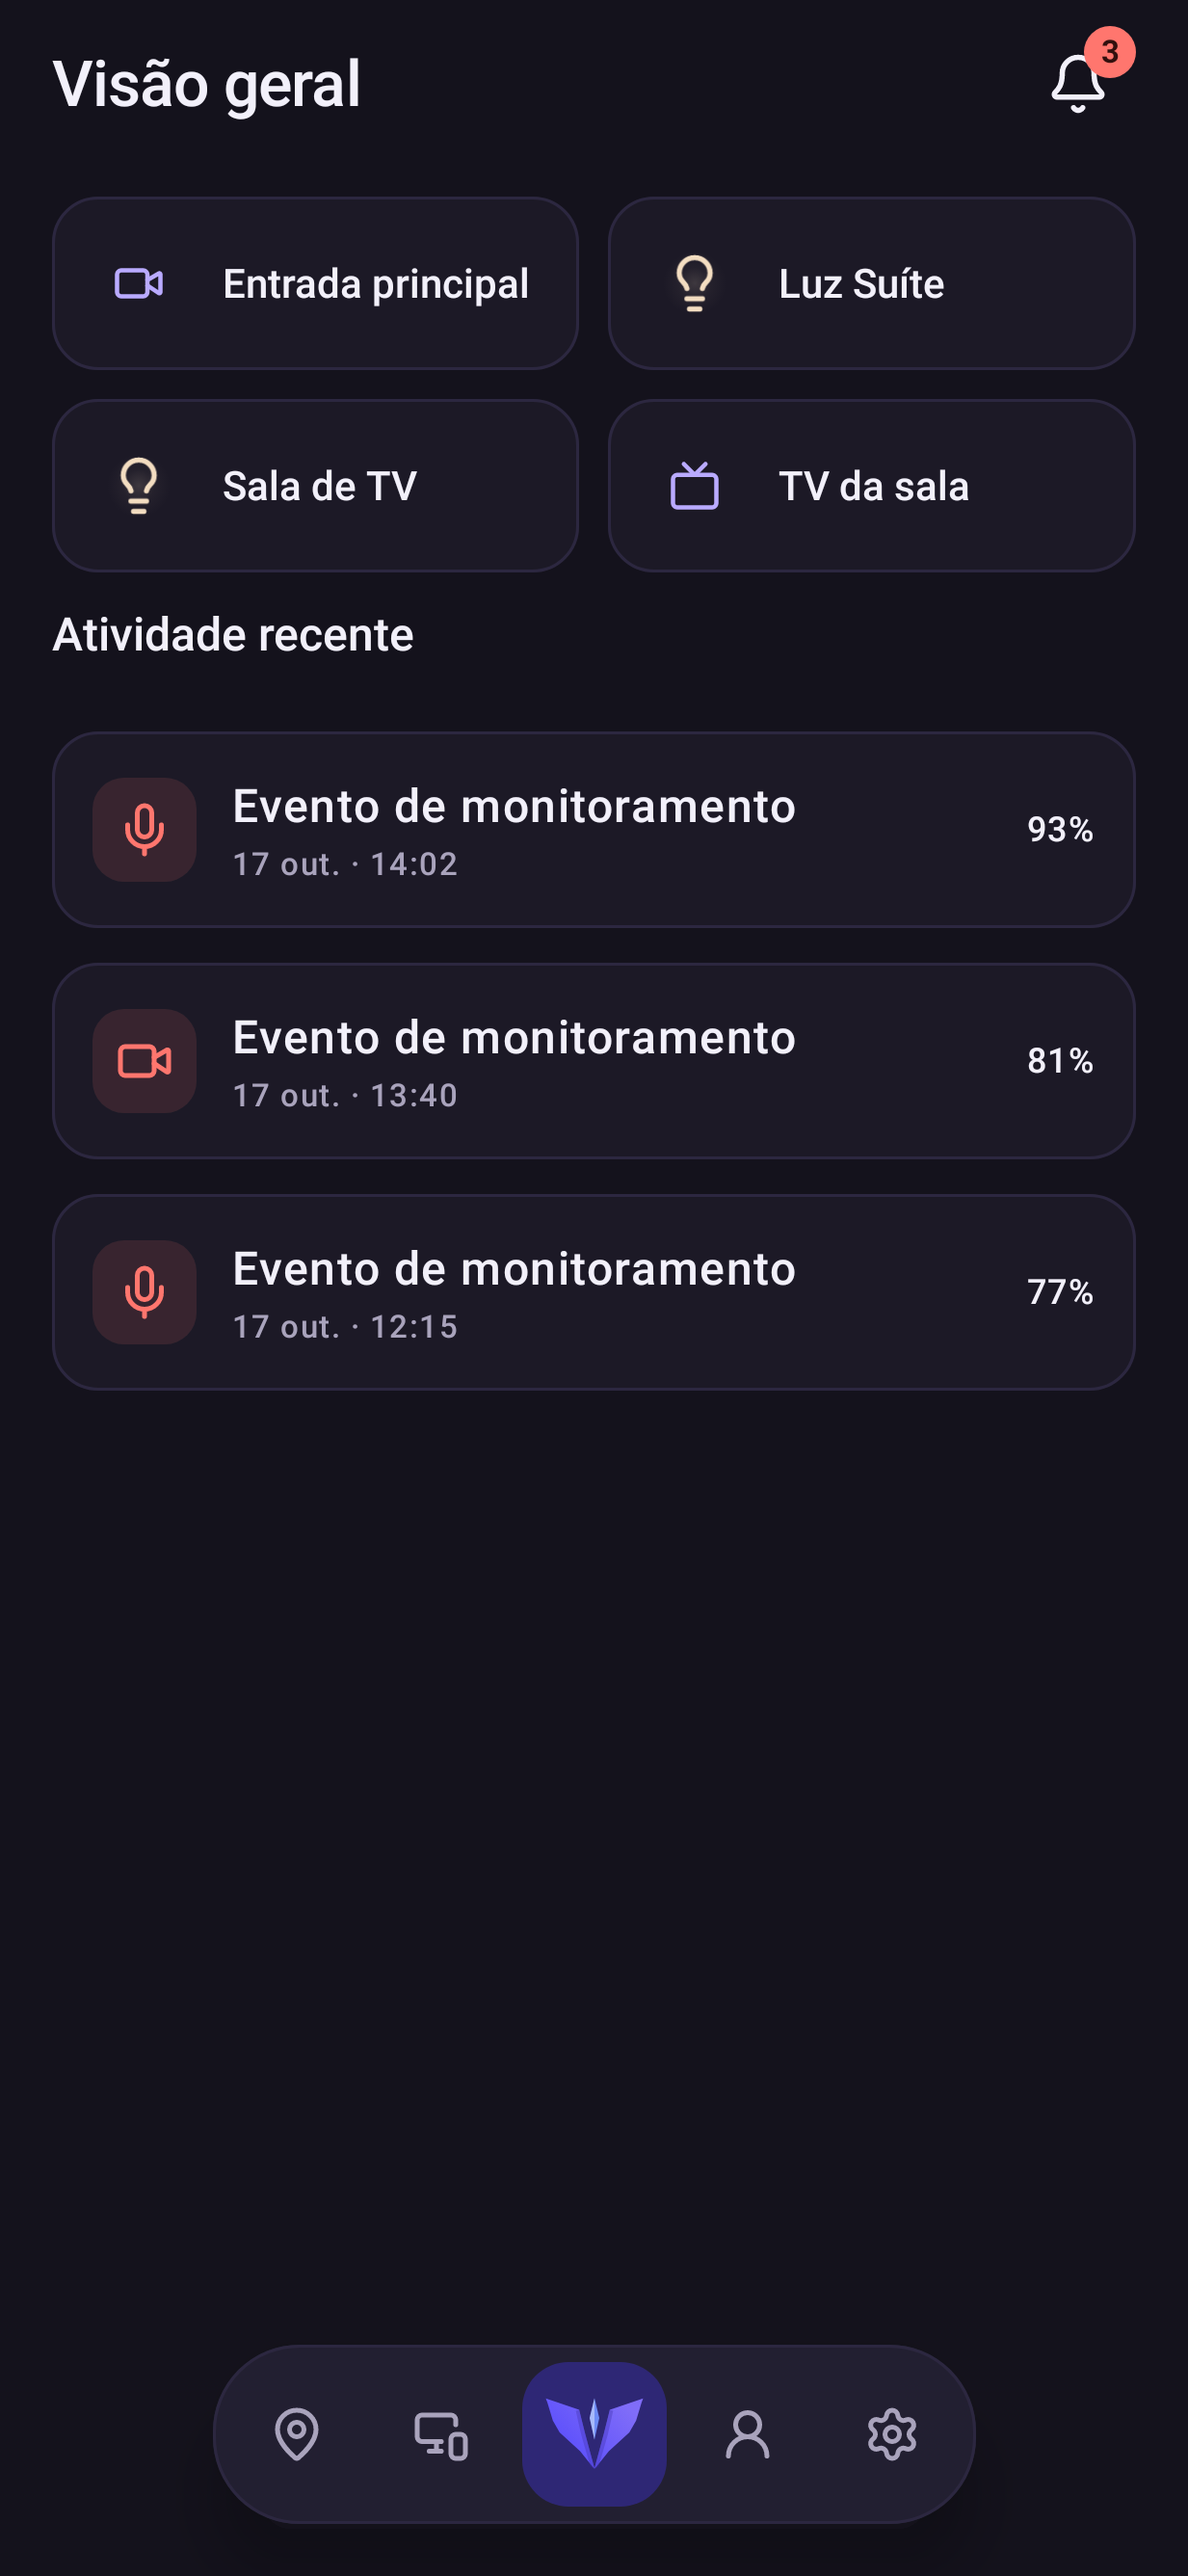
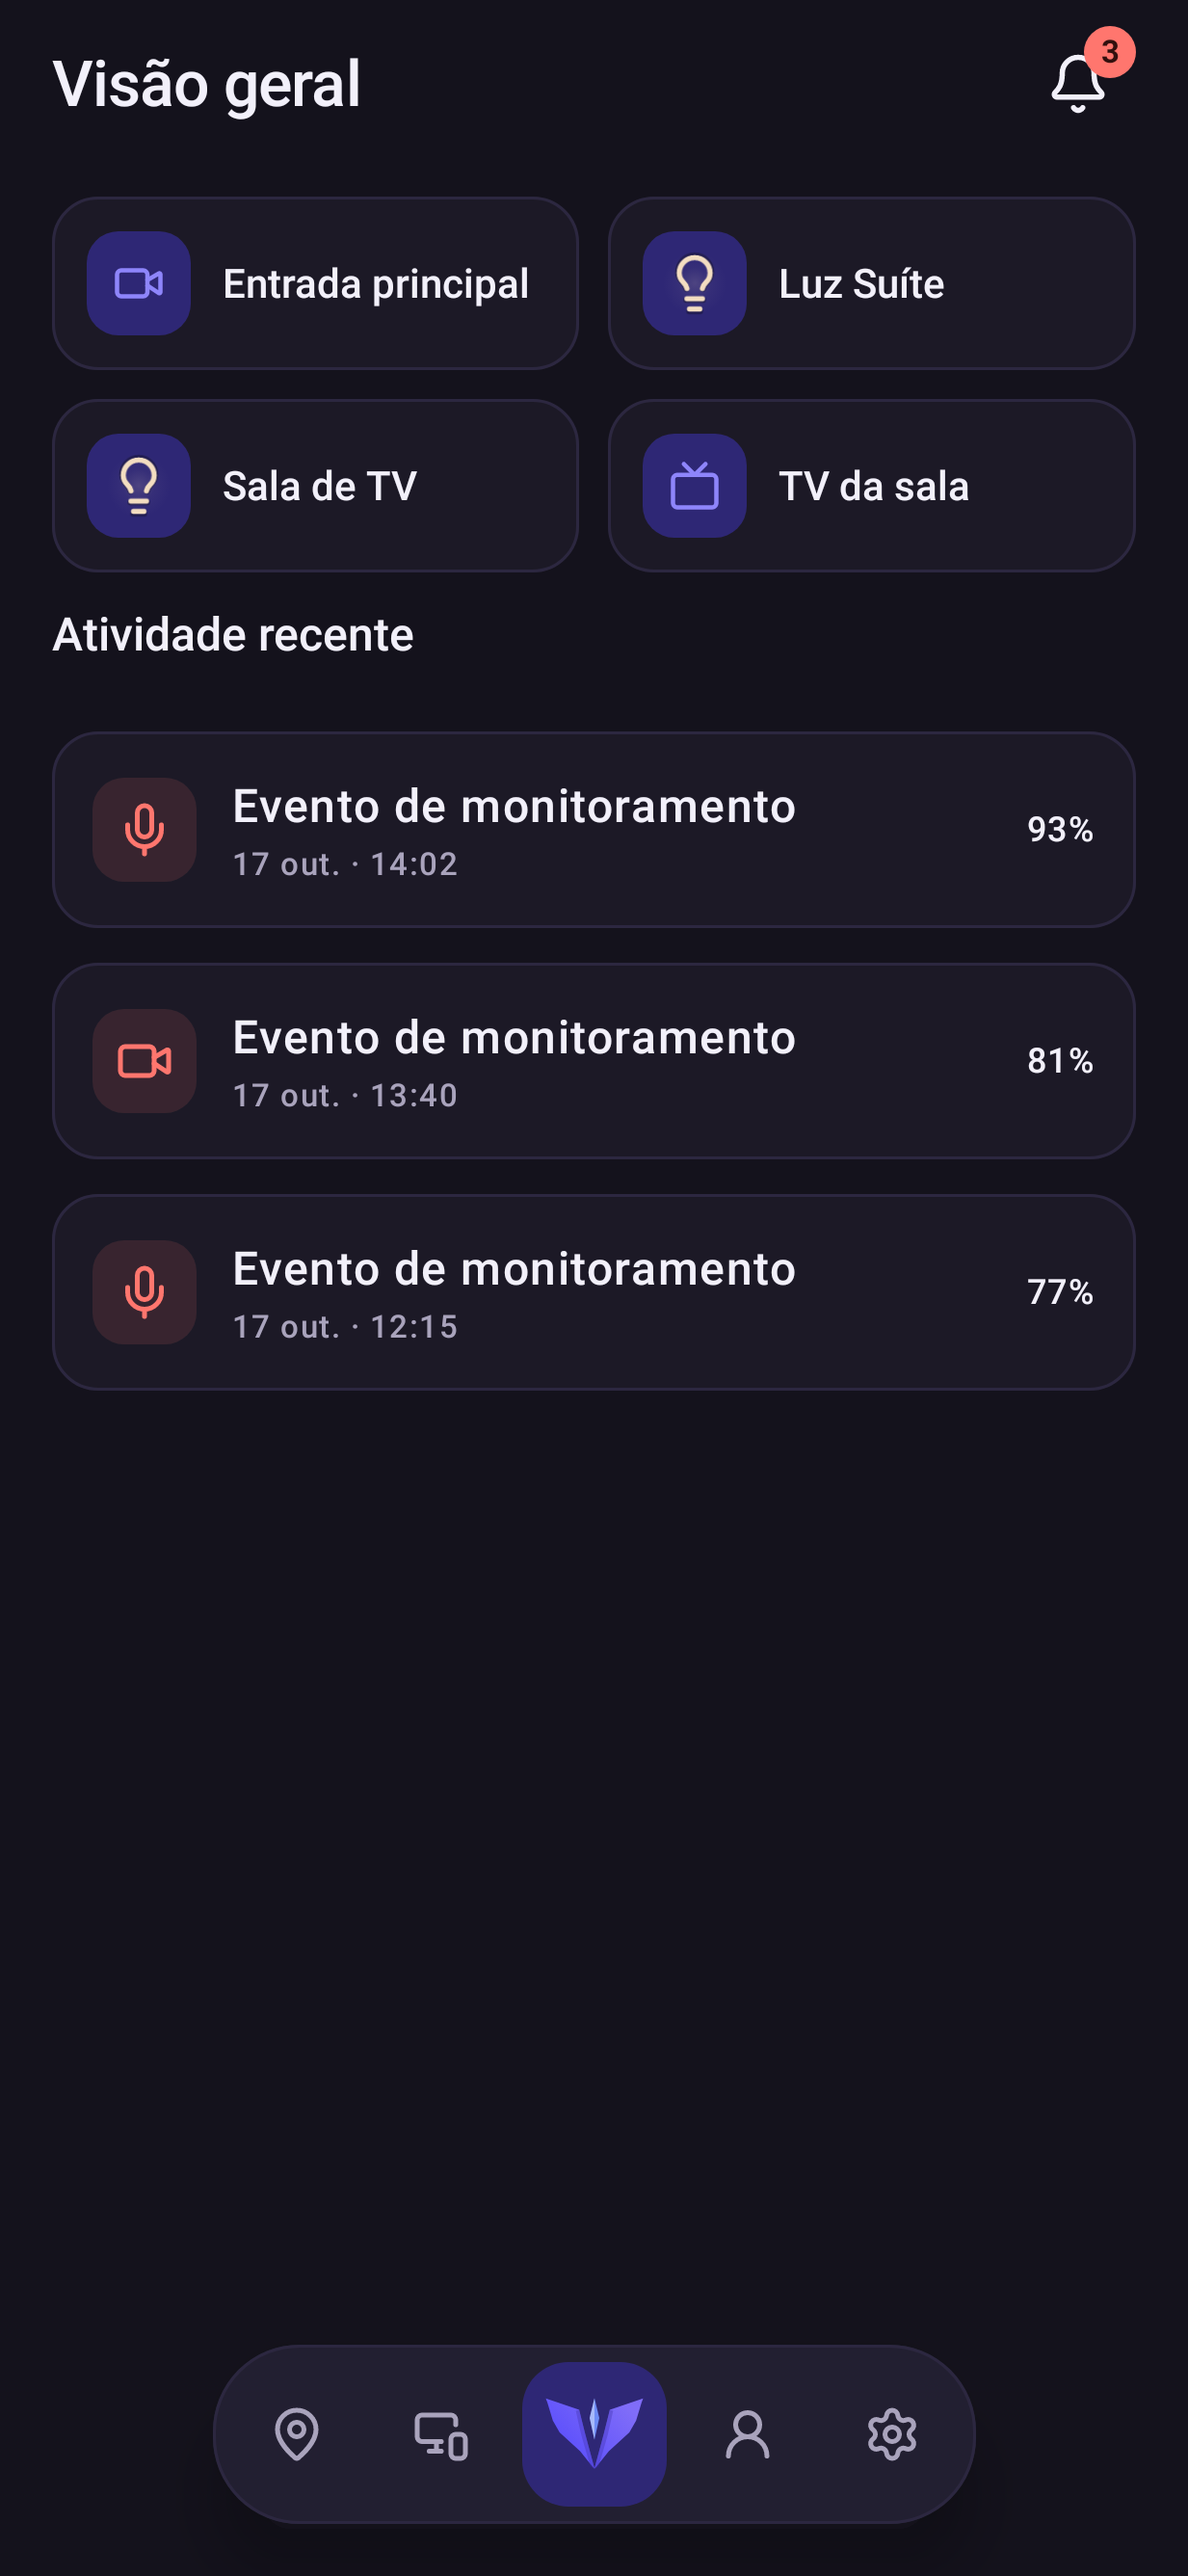
fix(app): tile dos ícones segue o tema e ícones centralizados pela massa
Tema claro
- o tile dos ícones de destaque era um quadrado escuro fixo (#1C1926), o que não
  faz sentido no tema claro. Agora ele segue o tema como os outros cartões:
  claro no claro (com ícone roxo, 5,4:1) e escuro no escuro — o par sai dos
  próprios slots do Material (secondaryContainer/secondary);
- a lâmpada acesa em branco quente sumia no tile claro: ganhou um contorno
  escuro discreto, só no tema claro, mantendo a cor do estado.

Ícones
- o símbolo é mais pesado em cima (centro de massa a 39,6% da altura, medido no
  desenho rasterizado): centralizar pela caixa deixava o ícone parecendo baixo.
  O encaixe agora usa a massa, então a marca fica opticamente centrada;
- o ícone de notificação tinha 93% de preenchimento e encostava nas bordas;
  passou a 81%.

Capturas da landing regeradas.

Changed region(s): [[0.5239, 0.0621, 0.6472, 0.2174], [0.0616, 0.0621, 0.1849, 0.2174]]

diff --git a/mobile/app/src/main/java/com/ferforastieri/valky/core/design/ValkyrisTheme.kt b/mobile/app/src/main/java/com/ferforastieri/valky/core/design/ValkyrisTheme.kt
@@ -4,6 +4,7 @@ import androidx.compose.foundation.Canvas
 import androidx.compose.foundation.isSystemInDarkTheme
 import androidx.compose.material3.*
 import androidx.compose.runtime.Composable
+import androidx.compose.runtime.ReadOnlyComposable
 import androidx.compose.ui.Modifier
 import androidx.compose.ui.graphics.Color
 import androidx.compose.ui.graphics.Path
@@ -19,11 +20,11 @@ import androidx.compose.ui.unit.dp
 val CanvasLight=Color(0xFFF5F3FC);val SurfaceLight=Color(0xFFFBFAFF);val InkLight=Color(0xFF1A1726);val MutedLight=Color(0xFF6B6580);val SignalLight=Color(0xFF594DFC);val AlarmLight=Color(0xFFDC4A44)
 val CanvasDark=Color(0xFF14121C);val SurfaceDark=Color(0xFF1C1926);val InkDark=Color(0xFFF2F0FA);val MutedDark=Color(0xFFA9A3BC);val SignalDark=Color(0xFF9B8CFA);val AlarmDark=Color(0xFFFF766E)
 object ColorTokens {
-    val BrandTile=Color(0xFF1C1926)
-    // O tile da marca é escuro nos dois temas: o ícone dentro dele precisa ser
-    // claro sempre. Usar o secondary do tema deixava o ícone quase invisível no
-    // tema claro (contraste 3,2:1 contra 8,4:1 deste tom).
-    val OnBrandTile=Color(0xFFB9AAFF)
+    // Tile dos ícones de destaque. Segue o tema como os outros cartões: claro no
+    // tema claro (com ícone roxo) e escuro no escuro — antes era um quadrado
+    // preto fixo, que destoava no tema claro.
+    val BrandTile:Color @Composable @ReadOnlyComposable get()=MaterialTheme.colorScheme.secondaryContainer
+    val OnBrandTile:Color @Composable @ReadOnlyComposable get()=MaterialTheme.colorScheme.secondary
 }
 private val light=lightColorScheme(
     primary=Color(0xFF806DF8),onPrimary=Color(0xFFFFFFFF),primaryContainer=Color(0xFFE7E2FE),onPrimaryContainer=Color(0xFF241E52),

diff --git a/mobile/app/src/main/java/com/ferforastieri/valky/core/design/AnimatedBulbIcon.kt b/mobile/app/src/main/java/com/ferforastieri/valky/core/design/AnimatedBulbIcon.kt
@@ -14,6 +14,7 @@ import androidx.compose.foundation.Canvas
 import androidx.compose.foundation.layout.Box
 import androidx.compose.foundation.layout.fillMaxSize
 import androidx.compose.foundation.layout.size
+import androidx.compose.foundation.isSystemInDarkTheme
 import androidx.compose.material3.Icon
 import androidx.compose.runtime.Composable
 import androidx.compose.runtime.getValue
@@ -74,6 +75,16 @@ fun AnimatedBulbIcon(
                     radius = this.size.minDimension / 2f,
                 )
             }
+        }
+        // No tema claro o tile é claro: uma lâmpada acesa em branco quente sumiria
+        // nele. O contorno escuro discreto mantém a cor do estado legível.
+        if (on && !isSystemInDarkTheme()) {
+            Icon(
+                Lucide.Lightbulb,
+                null,
+                Modifier.fillMaxSize().scale(breathe * 1.09f),
+                tint = Color.Black.copy(alpha = .32f),
+            )
         }
         Icon(
             if (on) Lucide.Lightbulb else Lucide.LightbulbOff,

diff --git a/scripts/brand-assets.py b/scripts/brand-assets.py
@@ -68,11 +68,19 @@ def path_data(pts):
     return ' '.join(f'{"M" if i == 0 else "L"}{x:g},{y:g}' for i, (x, y) in enumerate(pts)) + 'Z'
 
 
+# Centro de massa do desenho, medido no SVG rasterizado (a marca é mais pesada
+# em cima: as asas concentram a área e o bico embaixo é fino). Centralizar pela
+# caixa deixava o símbolo parecendo baixo no ícone; por isso o encaixe usa a
+# massa, que é o que o olho lê como centro.
+MASS_RATIO = 0.396
+
+
 def fit(target, pad):
     x0, y0, x1, y1 = BBOX
     scale = min((target - 2 * pad) / (x1 - x0), (target - 2 * pad) / (y1 - y0))
     dx = (target - (x1 - x0) * scale) / 2 - x0 * scale
-    dy = (target - (y1 - y0) * scale) / 2 - y0 * scale
+    mass_y = y0 + (y1 - y0) * MASS_RATIO
+    dy = target / 2 - mass_y * scale
     return scale, dx, dy
 
 
@@ -153,8 +161,9 @@ def main():
     rsvg(svg, ROOT / 'web/public/apple-touch-icon.png', 180, DARK)
 
     square = out / 'valky-mark-square.svg'
+    altura = 512 * VH / VW
     square.write_text(f'<svg xmlns="http://www.w3.org/2000/svg" viewBox="0 0 512 512" width="512" height="512">'
-                      f'<image x="0" y="{(512 - 512 * VH / VW) / 2:g}" width="512" height="{512 * VH / VW:g}"'
+                      f'<image x="0" y="{512 / 2 - altura * MASS_RATIO:g}" width="512" height="{altura:g}"'
                       f' href="{svg}"/></svg>')
     rsvg(square, ROOT / 'mobile/app/src/main/res/drawable-nodpi/valky_mark.png', 512)
 
@@ -181,9 +190,9 @@ def main():
         f'    <path android:fillColor="{DARK}" android:pathData="M14,0h80a14,14 0 0 1 14,14v80a14,14 0 0 1 -14,14H14A14,14 0 0 1 0,94V14A14,14 0 0 1 14,0Z" />')
     legacy.write_text(body)
 
-    # Notificação: a marca preenche quase todo o quadro (o sistema mostra este
-    # ícone em 24dp na barra de status, então sobra só uma margem mínima).
-    nscale, ndx, ndy = fit(108, 4)
+    # Notificação: o sistema mostra este ícone em 24dp na barra de status, então
+    # a marca precisa de uma margem pequena (sem ela encosta nas bordas).
+    nscale, ndx, ndy = fit(108, 10)
     vector(res / 'ic_notification.xml',
            [(place(LEFT, nscale, ndx, ndy), '#FFFFFFFF', None), (place(RIGHT, nscale, ndx, ndy), '#FFFFFFFF', None),
             (place(GEM, nscale, ndx, ndy), '#FFFFFFFF', None)])
